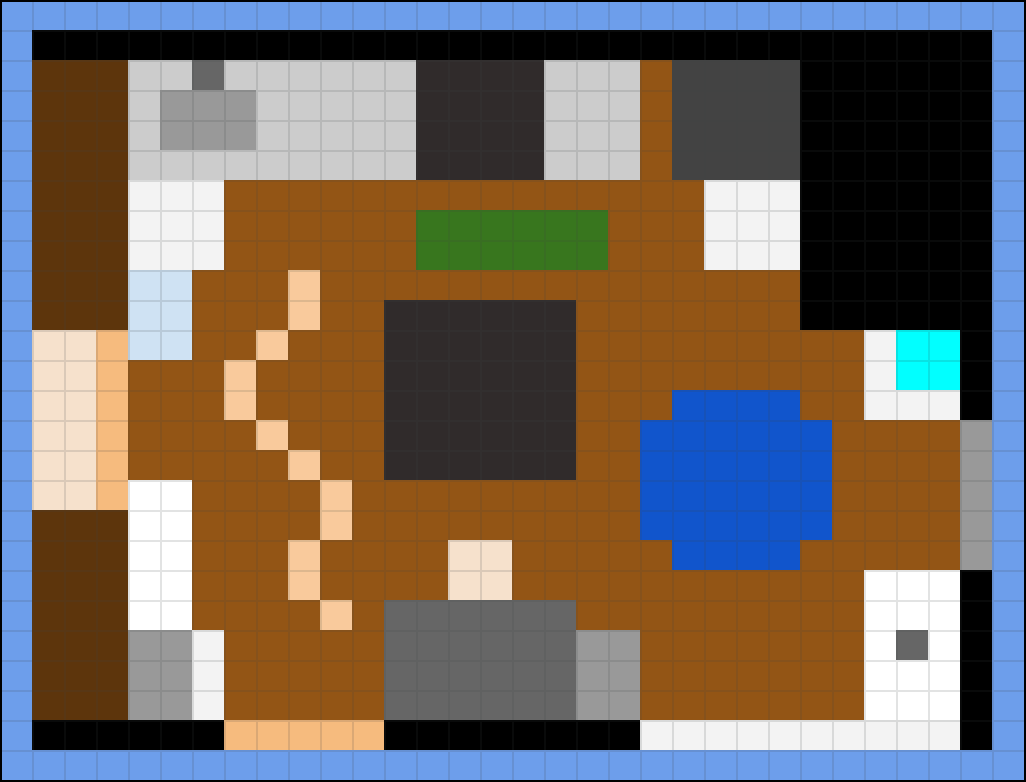
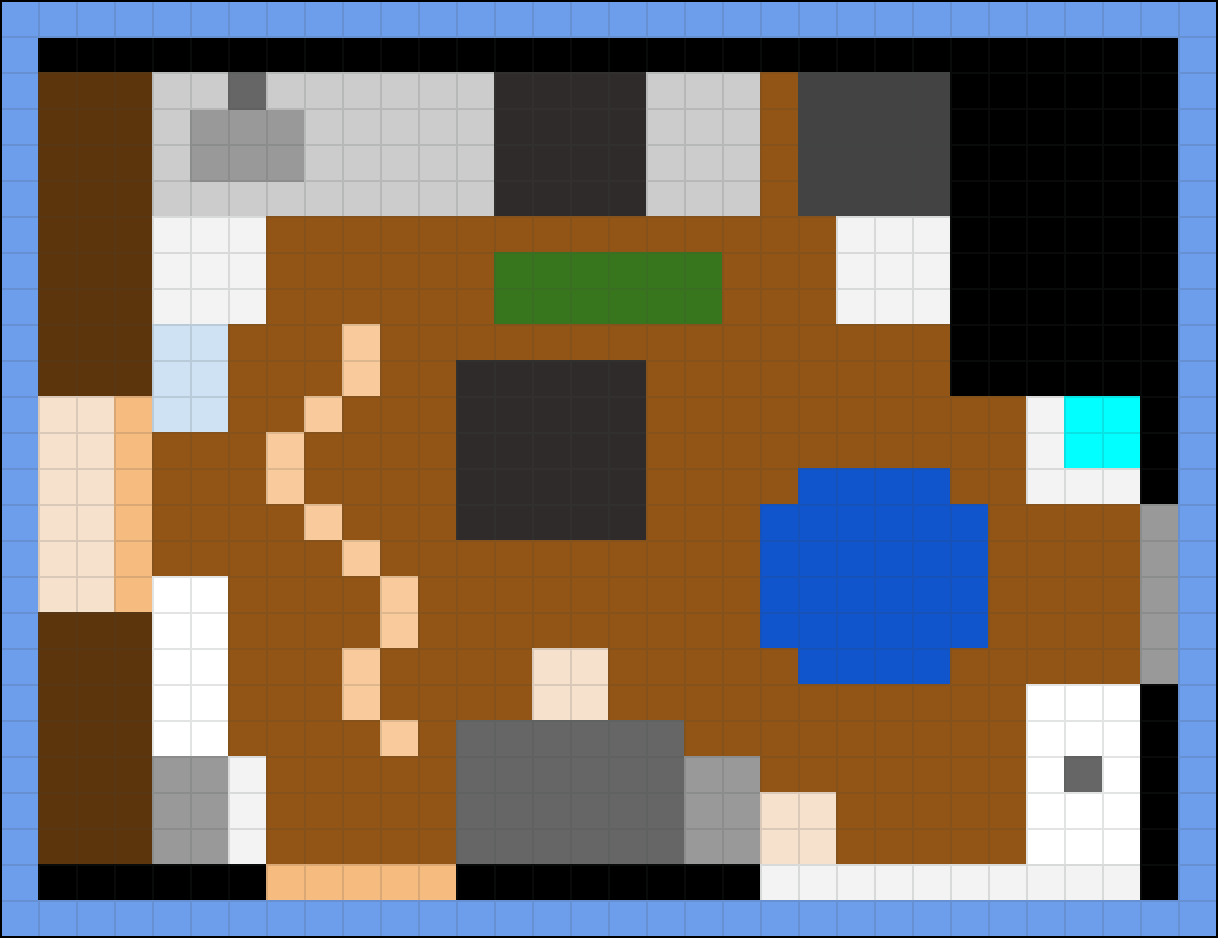
Ferret rotations mostly working

Changed region(s): [[0.9981, 0.0, 1.0, 1.0], [0.3743, 0.3683, 0.5614, 0.6138], [0.6238, 0.8286, 0.6862, 0.9207]]

diff --git a/game/script.js b/game/script.js
@@ -112,11 +112,8 @@ class Character {
                 if (this.type == 'human') {
                     if (boundary.type == 'furniture') {
                         console.log('You stubbed your toe on the ' + boundary.name);
-                        console.log(boundary.name + ' Location: (' + boundary.left + ', ' + boundary.top + ')');
-                        console.log('Attempted Location: (' + newLeft + ", " + newTop + ")");
-                        console.log('Current Location: (' + this.left + ", " + this.top + ")");
                     } else if (boundary.type == 'ferret') {
-                        console.log('You ran into ' + boundary.name);
+                        console.log(this.name + ' tripped over ' + boundary.name + ', slowing you down.');
                     }
                     // TODO lose points & add new dialog for consecutive toe stubs e.g. seriously dude why does this keep happening?! (toe stub counter)
                     // TODO slowed by toe stubs - three stubs within a certain time frame mean you need to sit down/stop for a few seconds
@@ -125,7 +122,6 @@ class Character {
                 // TODO remove console messages for ferrets bonking their noses once ferret rotations work
                 } else if (this.type == 'ferret') {
                     if (boundary.type == 'furniture') {
-                        console.log(this.name + ' bonked his nose on the ' + boundary.name);
                         // TODO - ferrets have different boundaries (e.g. can get in ball pit and litter boxes, can run under table)
                         // TODO - ferrets are transparent when under the table and cage or inside rice box or cat condo to show their location
                     } else if (boundary.type == 'ferret') {
@@ -133,9 +129,10 @@ class Character {
                         // TODO - the ferrets temporarily speed up
                     } else if (boundary.type == 'human') {
                         // TODO - this slows the player
-                        console.log(this.name + ' ran into ' + boundary.name + ', slowing you down.');
+                        console.log(this.name + ' attacked your shoes and slowed you down.');
                     }
                 }
+                // TODO ghost and grey wind ran into each other
 
                 // rotate back
                 this.height = originalState[0];
@@ -167,6 +164,7 @@ class Character {
         this.colliding = false;
     }
 
+    // TODO figure out issue with S ferret pics
     rotate() {
         // only rotate if last direction is different from new one
         if (this.direction != this.lastInput) {
@@ -175,15 +173,13 @@ class Character {
                     this.height = pHeight;
                     this.width = pWidth;
                 } else if (this.type == 'ferret') {
-                    this.height = fWidth;
-                    this.width = fHeight;
+                    this.height = fHeight;
+                    this.width = fWidth;
                 }
 
                 if (this.lastInput == 'W') { // move up (Y axis)
-                    console.log('W pressed');
                     this.direction = 'W';
                 } else if (this.lastInput == 'S') { // move down (Y axis)
-                    console.log('S pressed');
                     this.direction = 'S'
                 }
             } else if (this.lastInput == 'A' || this.lastInput == 'D') {
@@ -191,15 +187,13 @@ class Character {
                     this.height = pWidth;
                     this.width = pHeight;
                 } else if (this.type == 'ferret') {
-                    this.height = fHeight;
-                    this.width = fWidth;
+                    this.height = fWidth;
+                    this.width = fHeight;
                 }
 
                 if (this.lastInput == 'A') { // move left (X axis)
-                    console.log('A pressed');
                     this.direction = 'A';
                 } else if (this.lastInput == 'D') { // move right (X axis)
-                    console.log('D pressed');
                     this.direction = 'D';
                 }
             }
@@ -218,15 +212,16 @@ class Boundary {
     }
 }
 
-// TODO come up with better name
-class Move {
-    constructor(axis, delta) {
-        this.axis = axis;
-        this.delta = delta;
-    }
+// ----- HELPER METHODS -----
+function px(tile) { // convert tiles to pixels
+    return tile * tSize;
 }
 
-// ----- HELPER METHODS -----
+function getRandomInt(max) {
+    // returns a random number between 1 and max (inclusive)
+    return Math.floor(Math.random() * max) + 1;
+}
+
 function keyDownHandler(e) {
     if (e.key == 'w' || e.key == 'W' || e.key == 'Up' || e.key == 'ArrowUp') {
         // TODO find a better place to set new lastInput because it's currently very repetitive
@@ -253,7 +248,6 @@ function keyDownHandler(e) {
         }
     } else if (e.key == 's' || e.key == 'S' || e.key == 'Down' || e.key == 'ArrowDown') {
         if (madison.lastInput == 'D') {
-            // (9, 17) -> (8, 18)
             madison.lastInput = 'S';
             madison.move(-1, 1);
         } else {
@@ -271,8 +265,33 @@ function keyDownHandler(e) {
     }
 }
 
-function px(tile) { // convert tiles to pixels
-    return tile * tSize;
+function ferretMovement(ferret) {
+    if (ferret.queue.length == 0) {
+        var direction = getRandomInt(4); // 1 = W, 2 = A, 3 = S, 4 = D
+
+        if (direction == 1) {
+            ferret.queue.push('W');
+        } else if (direction == 2) {
+            ferret.queue.push('A');
+        } else if (direction == 3) {
+            ferret.queue.push('S');
+        } else if (direction == 4) {
+            ferret.queue.push('D');
+        }
+    }
+
+    var nextMove = ferret.queue.pop();
+    ferret.lastInput = nextMove;
+
+    if (nextMove == 'W') {
+        ferret.move(0, -1);
+    } else if (nextMove == 'A') {
+        ferret.move(-1, 0);
+    } else if (nextMove == 'S') {
+        ferret.move(0, 1);
+    } else if (nextMove == 'D') {
+        ferret.move(1, 0);
+    }
 }
 
 function redrawActors() {
@@ -291,59 +310,6 @@ function redrawActors() {
         } else if (actors[i].direction == 'D') {
             actors[i].image.src = actors[i].D;
         }
-    }
-}
-
-function getRandomInt(max) {
-    // returns a random number between 1 and max (inclusive)
-    return Math.floor(Math.random() * max) + 1;
-}
-
-function getRandomDirection() {
-    // TODO more efficient code for this?
-    var direction = Math.floor(Math.random() * Math.floor(2));
-
-    if (direction == 0) { // negative
-        direction = -1;
-    }
-
-    return direction;
-}
-
-function ferretMovement(ferret) {
-    // TODO find more efficient way to do this
-    if (ferret.queue.length == 0) {
-        var axis = getRandomInt(2); // 1 = X, 2 = Y
-        var absValue = getRandomInt(fMaxMove);
-        var delta = 1 * getRandomDirection();
-
-        if (axis == 1) { // move along the X axis
-            for (let x = 0; x < absValue; x++) {
-                ferret.queue.push(new Move('X', delta));
-            }
-        } else if (axis == 2) { // move along the Y axis
-            for (let y = 0; y < absValue; y++) {
-                ferret.queue.push(new Move('Y', delta));
-            }
-        }
-    }
-
-    var move = ferret.queue.pop();
-
-    if (move.axis == 'Y') {
-        if (move.delta == -1) {
-            ferret.lastInput = 'W';
-        } else if (move.delta == 1) {
-            ferret.lastInput == 'D';
-        }
-        ferret.move(0, move.delta);
-    } else if (move.axis == 'X') {
-        if (move.delta == -1) {
-            ferret.lastInput = 'A';
-        } else if (move.delta == 1) {
-            ferret.lastInput = 'D';
-        }
-        ferret.move(move.delta, 0);
     }
 }
 
@@ -409,18 +375,18 @@ var gameBoard = {
                       new Boundary('cat condo', 20, 22, 22, 24), // 22
                       new Boundary('pellet litter bin', 18, 20, 21, 24), // 23
                       new Boundary('ferret cage', 12, 18, 20, 24), // 24
-                      new Boundary('cat post', 14, 16, 19, 20), // 25
+                      new Boundary('cat post', 14, 16, 18, 20), // 25
                       new Boundary('grey litter box', 4, 6, 21, 24), // 26
                       new Boundary('trash cans', 4, 6, 16, 21), // 27
                       new Boundary('ping pong ball pit', 4, 6, 9, 12), // 28
-                      new Boundary('kitchen table', 12, 18, 10, 16), // 29
-                      new Boundary('plastic ball pit', 22, 24, 15, 17), // 30
+                      new Boundary('kitchen table', 12, 17, 10, 15), // 29
+                      new Boundary('plastic ball pit', 21, 25, 14, 18), // 30
                       madison, ghost, greyWind] // must check against other actors as well
 
         // place actors on board
         madison.move(8, 22);
-        ghost.move(14, 16);
-        greyWind.move(15, 16);
+        ghost.move(14, 15);
+        greyWind.move(15, 15);
         
         // TODO actors rotating in the direction they move
         // TODO random ferret pauses

diff --git a/game/styles.css b/game/styles.css
@@ -1,6 +1,6 @@
 canvas {
     /*TODO border: 1px solid #d3d3d3;*/
-    background-image: url("../images/board-grid.png");
+    background-image: url("../images/board.png");
     background-size: 640px 520px; /* bWidth * tSize, bHeight * tSize */
 }
 
